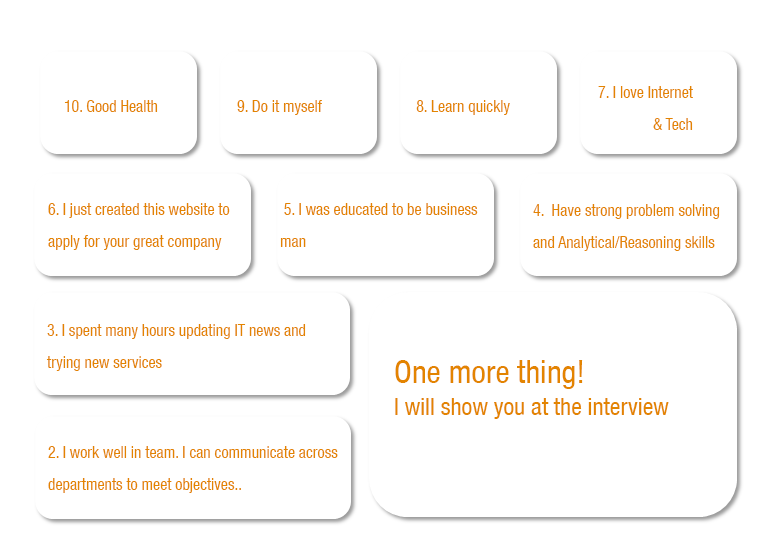
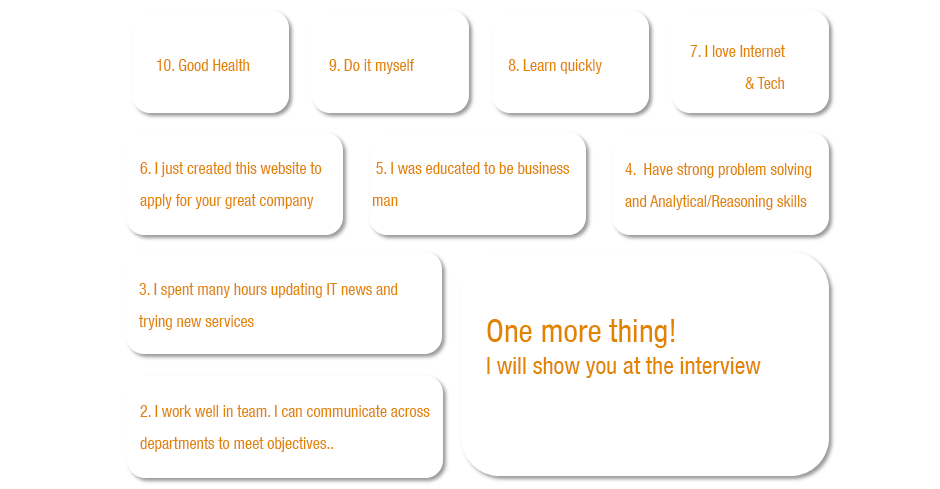
fix

diff --git a/index.html b/index.html
@@ -103,10 +103,10 @@
 
     <div class="container">
     	<div class="row">
-    		<div class="span12"><img src="http://placehold.it/1000x200"><hr></div>
+    		<div class="span12"><img class="img-rounded" src="cover.jpg"><hr></div>
     		
-    		<div class="span3 offset1"><img class="img-rounded" src="ava.jpg"></div>
-    		<div class="span7">
+    		
+    		<div class="span12">
   				<h3>Hello IDG. My name is Minh Khoa.</h3>
   				<h3>I want to join your team. </h3>
     			<p>Dear Sir/ Madam,</p>
@@ -127,7 +127,7 @@
 				<p>Thank you for your time and consideration.</p>
 				<p>Sincerely</p>
     		</div>
-    		<div class="span11 offset1"><h3>TOP 10 REASONs WHY HIRE ME!</h3><img src="img/10rsu.png"></div>
+    		<div class="span12"><h3>TOP 10 REASONs WHY HIRE ME!</h3><img src="img/10rsu.png"></div>
     		<div class="span12"><h3>WHAT PEOPLE ARE SAYING ABOUT ME</h3><img src="img/endor.png"></div>
     		<div class="span6 offset3">
     			 <a class="btn btn-large btn-primary" type="button" href="https://www.dropbox.com/s/fv3uqb3ql2yj4ca/khoa%20CV.pdf">View my resume</a>
